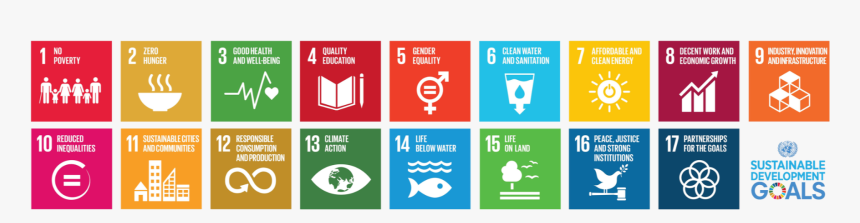
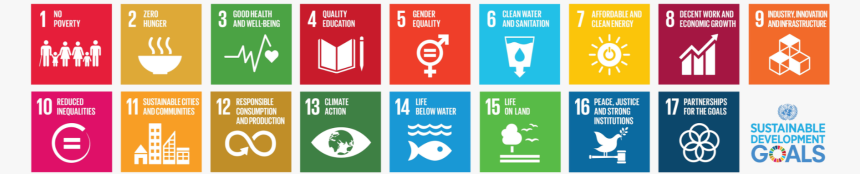
asc

diff --git a/Tableau.md b/Tableau.md
@@ -1,7 +1,7 @@
 ---
 title: Agenda Onu 2030
 feature_text: 
-feature_image: "https://simonedebonis.github.io/Projects/assets/Tableau/goals.png"
+feature_image: "https://simonedebonis.github.io/Projects/assets/Tableau/goals.jpg"
 excerpt: "A demo of Markdown and HTML includes"
 aside: false
 ---
